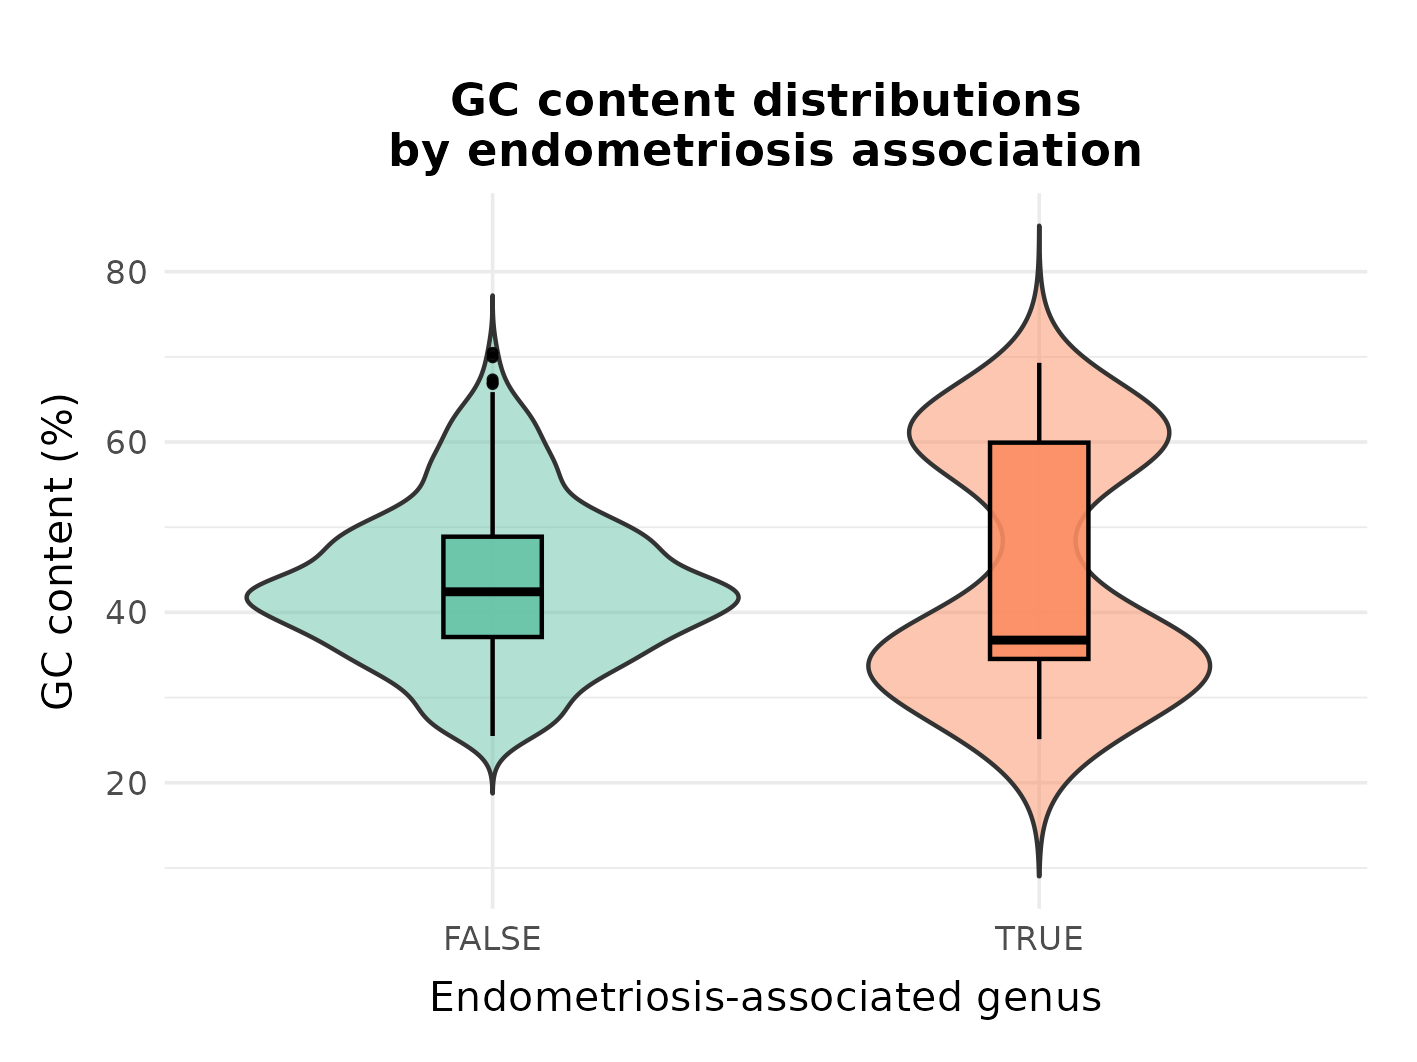
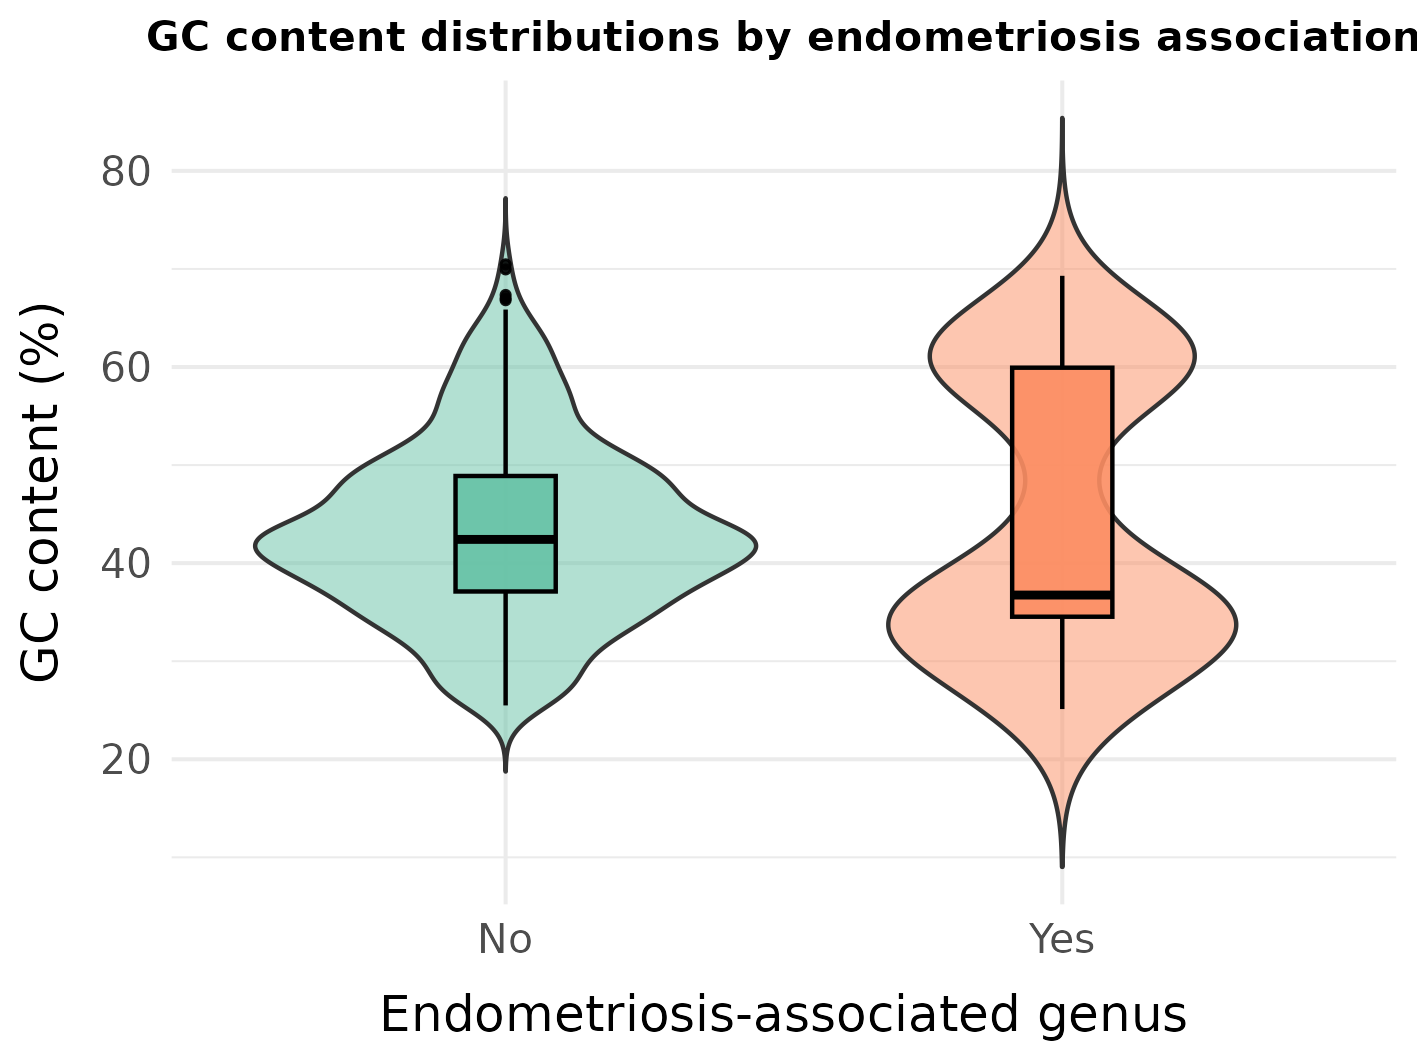
edit: analysis 3

diff --git a/R/07_analysis_3.html b/R/07_analysis_3.html
@@ -167,7 +167,16 @@ dbl (10): Length, N_contigs, N50, GC_content, Completeness, Contamination, r...
 <span id="cb4-36"><a href="#cb4-36" aria-hidden="true" tabindex="-1"></a>  <span class="at">height   =</span> <span class="dv">90</span>,</span>
 <span id="cb4-37"><a href="#cb4-37" aria-hidden="true" tabindex="-1"></a>  <span class="at">units    =</span> <span class="st">"mm"</span>,</span>
 <span id="cb4-38"><a href="#cb4-38" aria-hidden="true" tabindex="-1"></a>  <span class="at">dpi      =</span> <span class="dv">300</span></span>
-<span id="cb4-39"><a href="#cb4-39" aria-hidden="true" tabindex="-1"></a>)</span></code><button title="Copy to Clipboard" class="code-copy-button"><i class="bi"></i></button></pre></div>
+<span id="cb4-39"><a href="#cb4-39" aria-hidden="true" tabindex="-1"></a>)</span>
+<span id="cb4-40"><a href="#cb4-40" aria-hidden="true" tabindex="-1"></a></span>
+<span id="cb4-41"><a href="#cb4-41" aria-hidden="true" tabindex="-1"></a>phylum_prop_plot </span></code><button title="Copy to Clipboard" class="code-copy-button"><i class="bi"></i></button></pre></div>
+<div class="cell-output-display">
+<div>
+<figure class="figure">
+<p><img src="07_analysis_3_files/figure-html/unnamed-chunk-3-1.svg" class="img-fluid figure-img" width="672"></p>
+</figure>
+</div>
+</div>
 </div>
 <p>Several phyla contain both “Yes” and “No” MAGs because endometriosis association is defined at the genus level, not the phylum level. Large vaginal phyla such as <em>Actinomycetota</em>, <em>Bacillota</em> and <em>Bacteroidota</em> include many different genera. As a result, these dominant phyla contain mostly non-associated MAGs, along with a smaller number of associated ones. This pattern is expected and reflects the natural structure of the vaginal microbiome rather than a phylum-wide association with the disease.</p>
 </section>
@@ -241,13 +250,21 @@ X-squared = 30.251, df = 7, p-value = 8.542e-05</code></pre>
 <span id="cb10-28"><a href="#cb10-28" aria-hidden="true" tabindex="-1"></a>    )</span>
 <span id="cb10-29"><a href="#cb10-29" aria-hidden="true" tabindex="-1"></a></span>
 <span id="cb10-30"><a href="#cb10-30" aria-hidden="true" tabindex="-1"></a><span class="fu">ggsave</span>(</span>
-<span id="cb10-31"><a href="#cb10-31" aria-hidden="true" tabindex="-1"></a>  <span class="at">filename =</span> <span class="st">"../results/07_key_plot_02.png"</span>,</span>
+<span id="cb10-31"><a href="#cb10-31" aria-hidden="true" tabindex="-1"></a>  <span class="at">filename =</span> <span class="st">"../results/07_key_plot_2.png"</span>,</span>
 <span id="cb10-32"><a href="#cb10-32" aria-hidden="true" tabindex="-1"></a>  <span class="at">plot     =</span> gc_violin_plot,</span>
 <span id="cb10-33"><a href="#cb10-33" aria-hidden="true" tabindex="-1"></a>  <span class="at">width    =</span> <span class="dv">120</span>,</span>
 <span id="cb10-34"><a href="#cb10-34" aria-hidden="true" tabindex="-1"></a>  <span class="at">height   =</span> <span class="dv">90</span>,</span>
 <span id="cb10-35"><a href="#cb10-35" aria-hidden="true" tabindex="-1"></a>  <span class="at">units    =</span> <span class="st">"mm"</span>,</span>
 <span id="cb10-36"><a href="#cb10-36" aria-hidden="true" tabindex="-1"></a>  <span class="at">dpi      =</span> <span class="dv">300</span></span>
-<span id="cb10-37"><a href="#cb10-37" aria-hidden="true" tabindex="-1"></a>)</span></code><button title="Copy to Clipboard" class="code-copy-button"><i class="bi"></i></button></pre></div>
+<span id="cb10-37"><a href="#cb10-37" aria-hidden="true" tabindex="-1"></a>)</span>
+<span id="cb10-38"><a href="#cb10-38" aria-hidden="true" tabindex="-1"></a>gc_violin_plot</span></code><button title="Copy to Clipboard" class="code-copy-button"><i class="bi"></i></button></pre></div>
+<div class="cell-output-display">
+<div>
+<figure class="figure">
+<p><img src="07_analysis_3_files/figure-html/unnamed-chunk-5-1.svg" class="img-fluid figure-img" width="672"></p>
+</figure>
+</div>
+</div>
 </div>
 <p>The distributions show substantial overlap between the groups. Endometriosis-associated MAGs have a slightly lower median GC content, but the difference is modest and the overall ranges are similar. This indicates that GC composition does not clearly distinguish taxa associated with endometriosis. GC-content distributions are nearly identical, indicating no genomic differences between endometriosis-associated and non-associated MAGs.</p>
 <p>Together, these results indicate that endometriosis-associated MAGs are a taxonomically restricted subset of the broader vaginal microbiome, and their genomic features are typical for their phyla. There is no evidence that endometriosis-associated genera form a genomically distinct lineage when accounting for taxonomy.</p>
